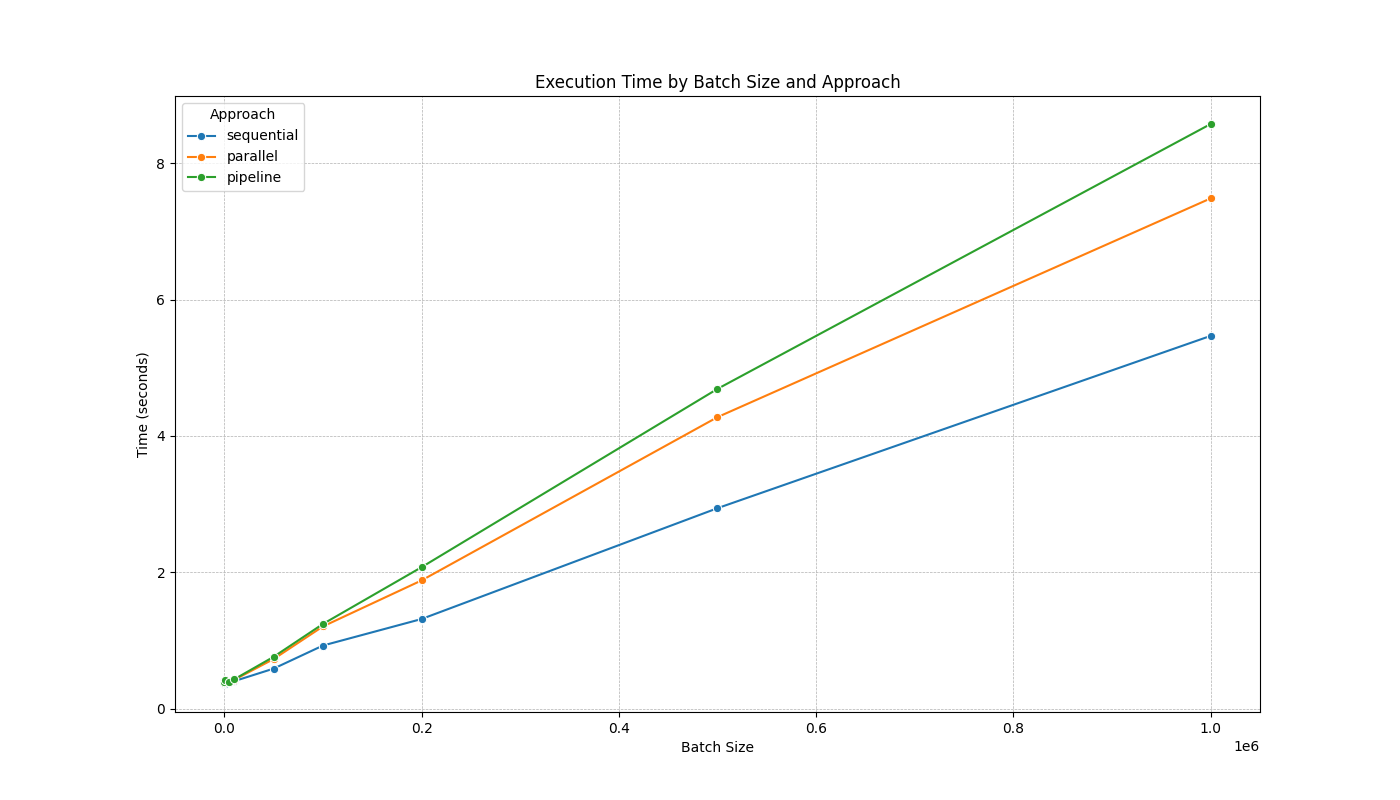
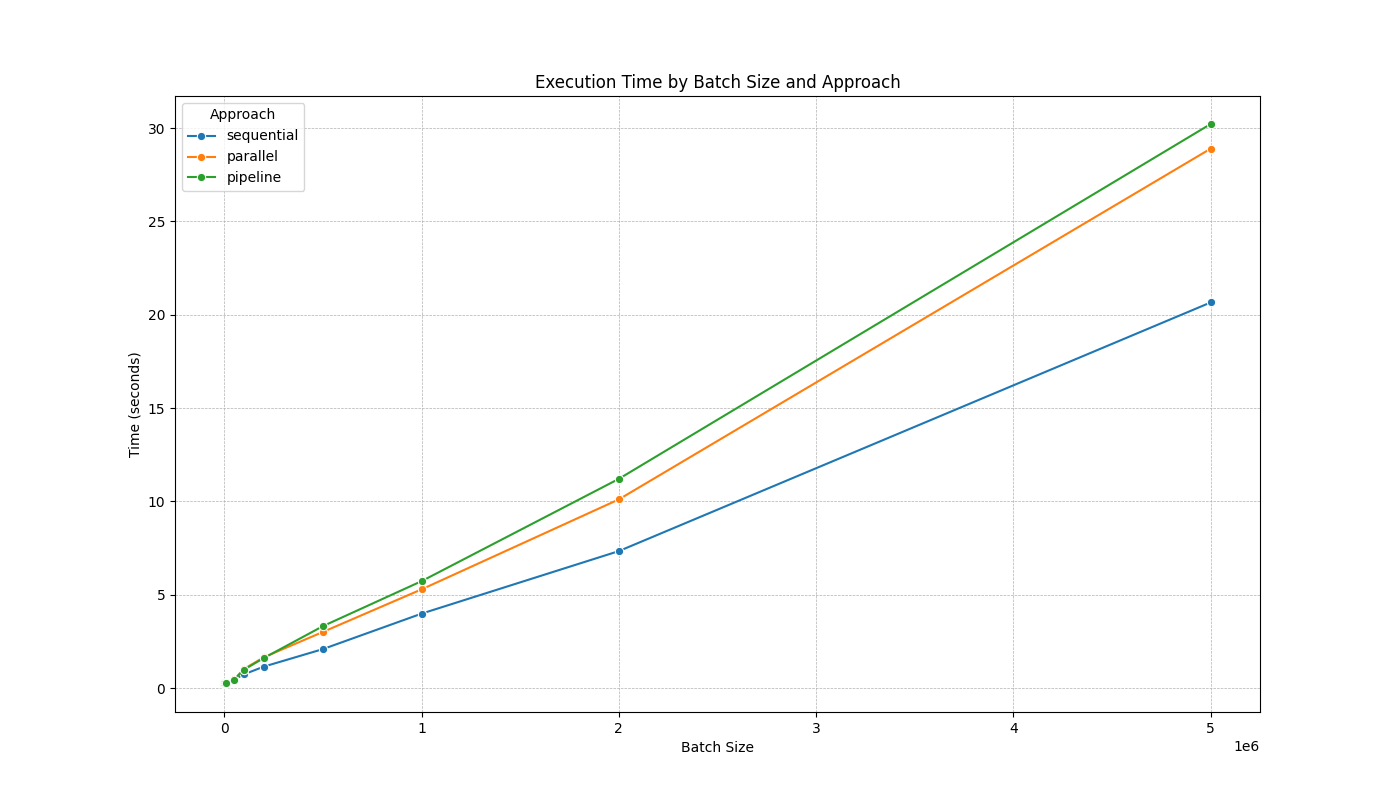
cloud batch size increase

diff --git a/examples/pipeline/log_analysis/test_performance_pipeline_cloud.py b/examples/pipeline/log_analysis/test_performance_pipeline_cloud.py
@@ -8,7 +8,8 @@ import seaborn as sns
 
 # Define the batch sizes
 BATCH_SIZES = [10, 100, 750, 5000, 10000,
-               50000, 100000, 200000, 500000, 1000000, 2000000, 5000000]
+               50000, 100000, 200000, 500000, 1000000, 2000000, 5000000, 10000000, 
+               25000000, 60000000, 100000000, 250000000, 500000000, 1000000000]
 
 # Define the output CSV file
 CSV_FILE = "/results/pipeline_performance_results.csv"
